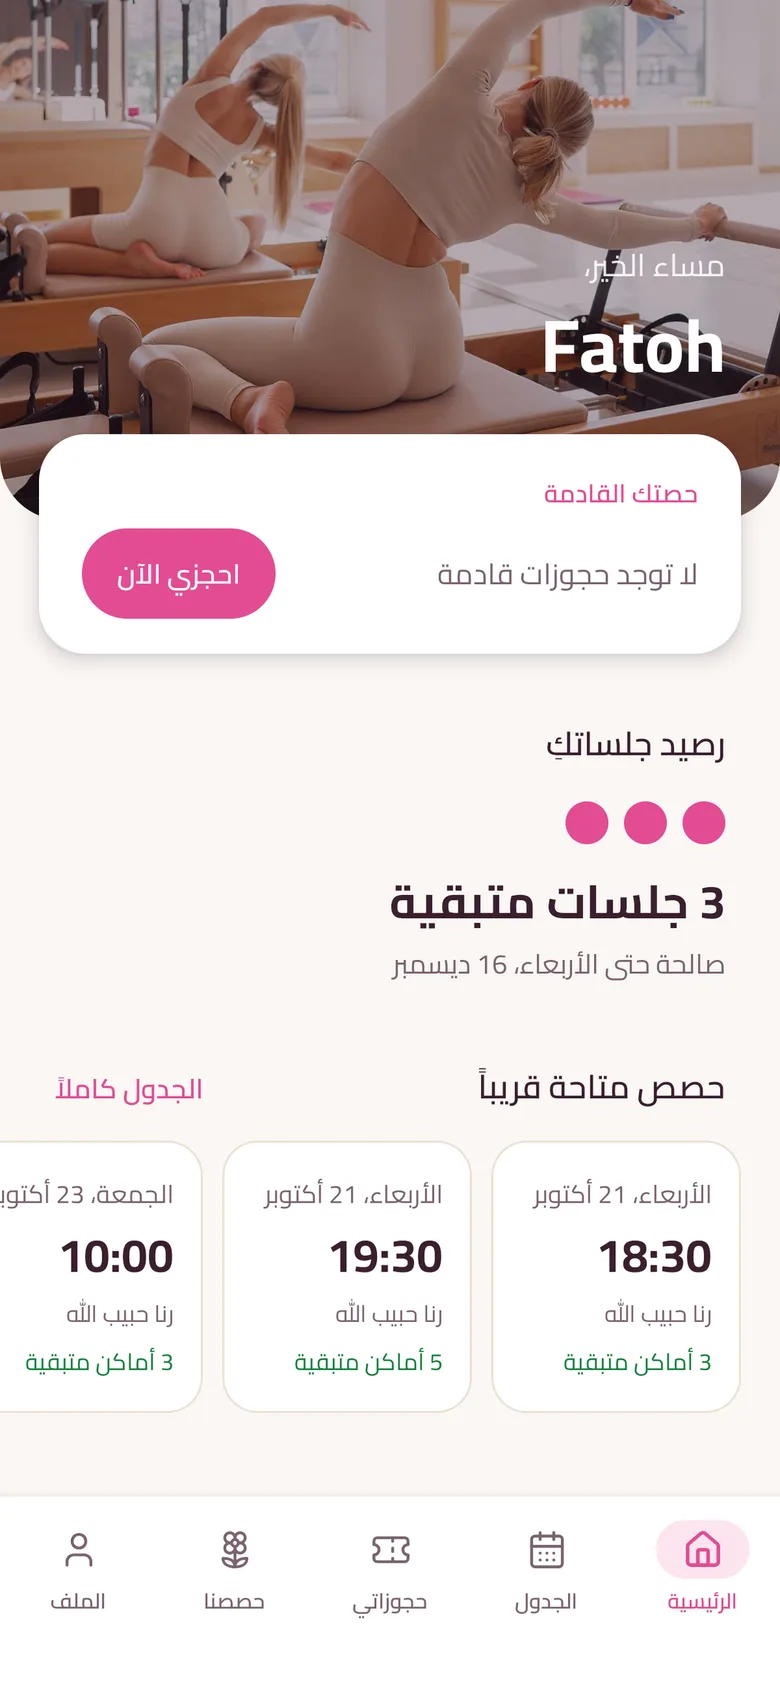
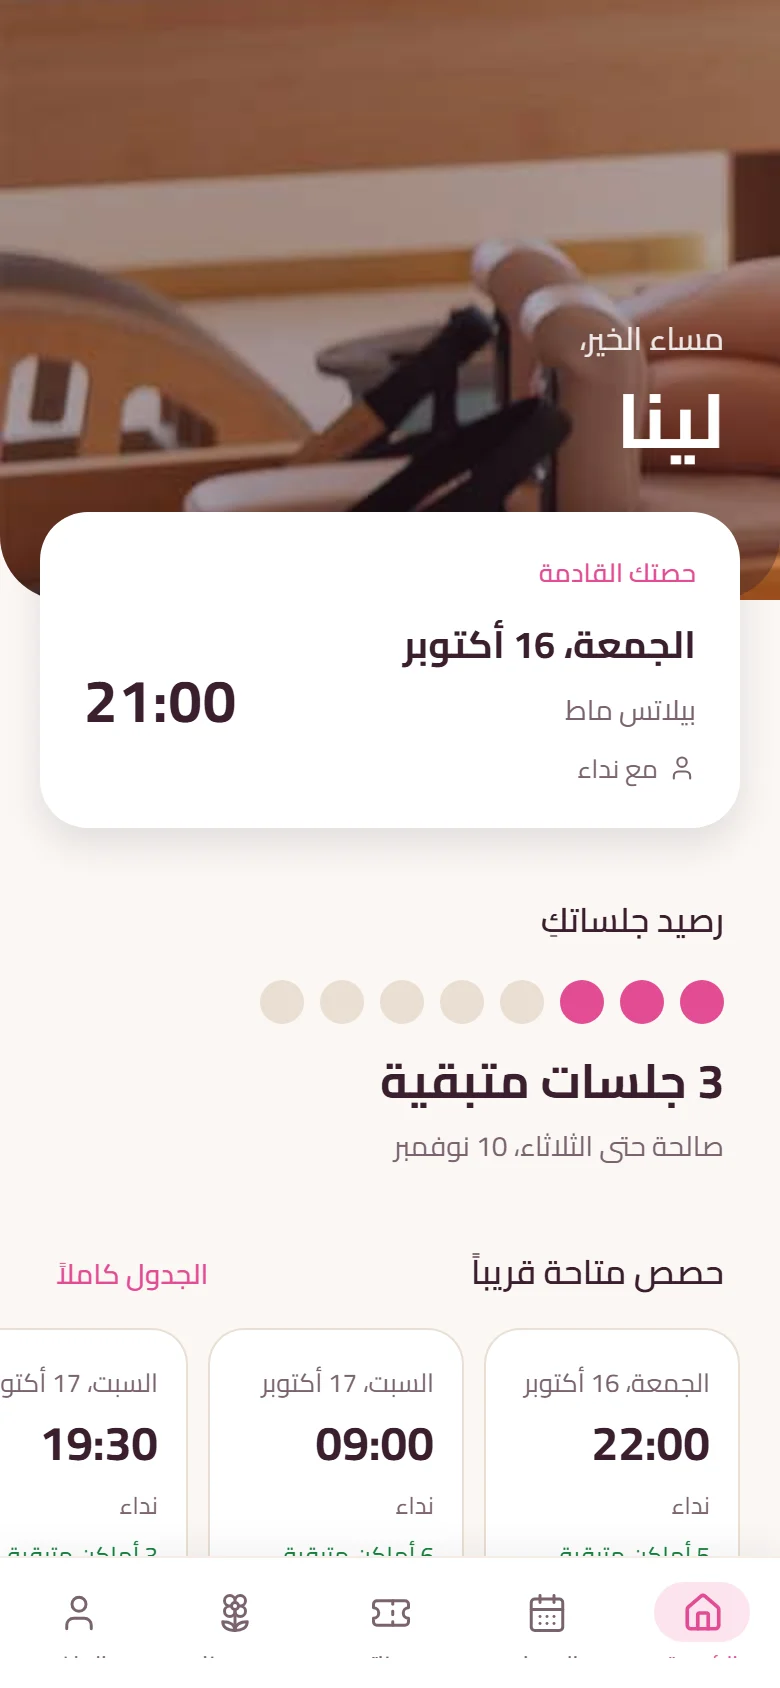
Nedaa Lifestyle: lead with the class schedule, not the owner's home screen
The App Store home capture shows the owner's own account name, so the case
page and deck use the schedule screen from the same set instead. The earlier
mock member home is back at its path, unreferenced.

diff --git a/src/content/portfolio.ts b/src/content/portfolio.ts
@@ -441,7 +441,7 @@ export const projects: PortfolioProject[] = [
     ],
     nextStep: tx("Walk the admin screens on a phone, test a real refund, then ship the iOS and Android builds.", "تجربة شاشات الإدارة على الهاتف، واختبار استرداد حقيقي، ثم إصدار نسختي iOS وأندرويد.", "לעבור על מסכי הניהול בטלפון, לבדוק החזר אמיתי, ואז לשחרר את גרסאות iOS ואנדרואיד."),
     media: [
-      { src: "/work/nedaa-lifestyle/member-home.webp", width: 780, height: 1691, alt: tx("Member home on a phone: the studio photo, the next booking, sessions left as dots and open classes this week", "الصفحة الرئيسية للعضوة على الهاتف: صورة الاستوديو والحجز القادم والجلسات المتبقية كنقاط والحصص المتاحة هذا الأسبوع", "מסך הבית של המתאמנת בטלפון: תמונת הסטודיו, ההזמנה הבאה, מפגשים שנותרו כנקודות ושיעורים פתוחים השבוע"), caption: tx("Member home, the live app on an iPhone", "الصفحة الرئيسية للعضوة، التطبيق الحي على آيفون", "מסך הבית של המתאמנת, האפליקציה החיה באייפון"), fit: "contain" },
+      { src: "/work/nedaa-lifestyle/member-schedule.webp", width: 780, height: 1691, alt: tx("Class schedule on a phone: pick a day, see each class with its trainer, time and places left, and book", "جدول الحصص على الهاتف: اختيار اليوم، وكل حصة مع المدرّبة والوقت والأماكن المتبقية، وزر الحجز", "לוח השיעורים בטלפון: בחירת יום, כל שיעור עם המאמנת, השעה והמקומות שנותרו, והזמנה"), caption: tx("Class schedule, the live app on an iPhone", "جدول الحصص، التطبيق الحي على آيفون", "לוח השיעורים, האפליקציה החיה באייפון"), fit: "contain" },
       { src: "/work/nedaa-lifestyle/admin-dashboard.webp", width: 780, height: 1688, alt: tx("The trainer's dashboard: today's classes, bookings and free places", "لوحة المدرّبة: حصص اليوم والحجوزات والأماكن المتاحة", "לוח המאמנת: שיעורי היום, הזמנות ומקומות פנויים"), caption: tx("Trainer dashboard, demo data", "لوحة المدرّبة، بيانات تجريبية", "לוח המאמנת, נתוני דוגמה"), fit: "contain" },
       { src: "/work/nedaa-lifestyle/admin-reports.webp", width: 780, height: 1688, alt: tx("Studio reports: revenue by channel after refunds, classes, fill rate and new members", "تقارير الاستوديو: الإيراد حسب القناة بعد الاستردادات والحصص ونسبة الإشغال والعضوات الجدد", "דוחות הסטודיו: הכנסה לפי ערוץ אחרי החזרים, שיעורים, תפוסה ומתאמנות חדשות"), caption: tx("Reports, demo data", "التقارير، بيانات تجريبية", "דוחות, נתוני דוגמה"), fit: "contain" },
       { src: "/work/nedaa-lifestyle/admin-classes.webp", width: 780, height: 1688, alt: tx("Today's roster for the trainer with attendees and a booking waiting for approval", "قائمة حصص اليوم للمدرّبة مع الحاضرات وحجز بانتظار الموافقة", "רשימת השיעורים של היום למאמנת עם המשתתפות והזמנה שממתינה לאישור"), caption: tx("Roster, demo data", "قائمة الحصص، بيانات تجريبية", "רשימת שיעורים, נתוני דוגמה"), fit: "contain" },

diff --git a/TASKS.md b/TASKS.md
@@ -35,9 +35,10 @@
   so not shown), **Bab** (the redesigned front door). **Seeker Radar** had been captured on 2026-08-28, before
   its September redesign: all three screens retaken (dark store-sweep home 1280×720, app brief and changelog
   390×844), sizes updated in the content, the portal tablet and the showcase crops re-aimed (the sweep card
-  with the featured app; the brief's rating and score). **Nedaa Lifestyle** member home is now the real app on
-  an iPhone (the App Store capture from nedaa-lifestyle `6492aea`, 780×1691) instead of the mock render; its
-  caption says so. Kept as they were after a pixel diff against fresh captures: SOLitaire (home, Classic
+  with the featured app; the brief's rating and score). **Nedaa Lifestyle** now leads with the real app on an
+  iPhone: the class schedule from the App Store set (nedaa-lifestyle `6492aea`, 780×1691) instead of the mock
+  member home. The owner asked for a screen without their name, so the home screen (the owner's own account)
+  is not used; the old mock stays at its URL, unreferenced. Kept as they were after a pixel diff against fresh captures: SOLitaire (home, Classic
   table, live table), Darbak, Camp & Hike, Lulu Tokki; and the WhatsApp agent, Saqroon and Little Keepsakes,
   whose repos have not changed since their captures. Now strip rebuilt. 84 tests, lint and types pass; the
   homepage deck, portal scene and Nedaa page checked headlessly at 1440 and 375.
